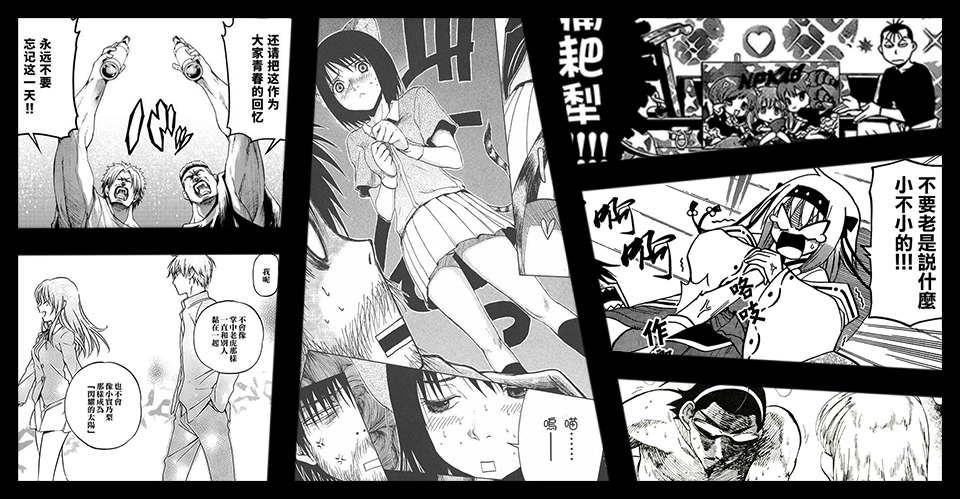
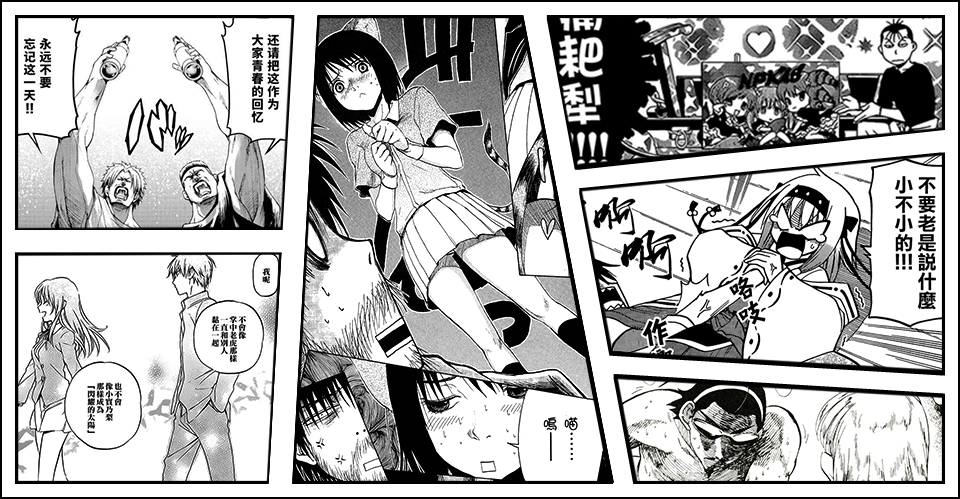
1. update manga1 demo image 2. fix repo link new tab problem 3. add zmcx16.github.io repo

Changed region(s): [[0.0, 0.0, 1.0, 1.0]]

diff --git a/about.html b/about.html
@@ -18,9 +18,9 @@
         <div class="cell Illustrator">Illustrator:</div>
         <div class="cell Illustrator_val">超愛喝榛奶</div>
         <div class="cell Contact">Contact:</div>
-        <div class="cell Contact_val"><a href="mailto:zmcx16@gmail.com">zmcx16@gmail.com</a></div>
+        <div class="cell Contact_val"><a href="mailto:zmcx16@gmail.com" target="_blank">zmcx16@gmail.com</a></div>
         <div class="cell open_source">Open Source:</div>
-        <div class="cell open_source_val"><a href="https://github.com/zmcx16/zmcx16.github.io">zmcx16.github.io</a></div>
+        <div class="cell open_source_val"><a href="https://github.com/zmcx16/zmcx16.github.io" target="_blank">zmcx16.github.io</a></div>
         <div class="cell description_val">Happy! Lucky! Smile! Yeah!</div>
         <div class="cell copyright_val">©zmcx16 All rights reserved.</div>
     </div>

diff --git a/js/repos.js b/js/repos.js
@@ -102,9 +102,9 @@ Repository.prototype.headerLogo = function() {
 
 Repository.prototype.repoContent = function() {
 
-  var new_tab = " target=\"_blank\"";
-  if( !this.new_tab){
-    new_tab = " ";
+  var tab = " target=\"_blank\"";
+  if (typeof this.new_tab !== 'undefined' && !this.new_tab){
+    tab = " ";
   }
 
   var on_click = "";
@@ -118,7 +118,7 @@ Repository.prototype.repoContent = function() {
   return [
     '<div class="island-item">',
       '<h3>',
-        '<a ', href, new_tab, on_click, '>', this.headerLogo(), this.name, '</a>',
+        '<a ', href, tab, on_click, '>', this.headerLogo(), this.name, '</a>',
       '</h3>',
       '<div class="repo-info">',
         '<span><i class="octicon octicon-star"></i> ', this.watchers, '</span> ',

diff --git a/js/projects.js b/js/projects.js
@@ -19,16 +19,22 @@ oss_projects['MemoOffVocabulary'] = {
   position: 3,
   background: 'MemoOffVocabulary_295x150.jpg'
 };
-oss_projects['OpenAI-Gym-Hearts'] = {
+oss_projects['zmcx16.github.io'] = {
   featured: true,
   position: 4,
+  background: 'zmcx16.github.io_295x150.jpg'
+};
+oss_projects['OpenAI-Gym-Hearts'] = {
+  featured: true,
+  position: 5,
   background: 'OpenAI-Gym-Hearts_295x150.jpg'
 };
 oss_projects['OpenAI-Gym-GongZhu'] = {
   featured: true,
-  position: 5,
+  position: 6,
   background: 'OpenAI-Gym-GongZhu_295x150.jpg'
 };
+
 
 // Starred
 oss_projects['electronjs.org'] = {

diff --git a/index.html b/index.html
@@ -82,7 +82,7 @@
           <ul class='bullet-list-round'>
             <br>
             <li>這個網站是某宅宅工程師亂點技能樹下的產物</li>
-            <li>這裡還沒想到可以填什麼...</li>
+            <li>認真說起來, 做網站最麻煩的總是素材阿...</li>
           </ul>
         </div>
       </div>
